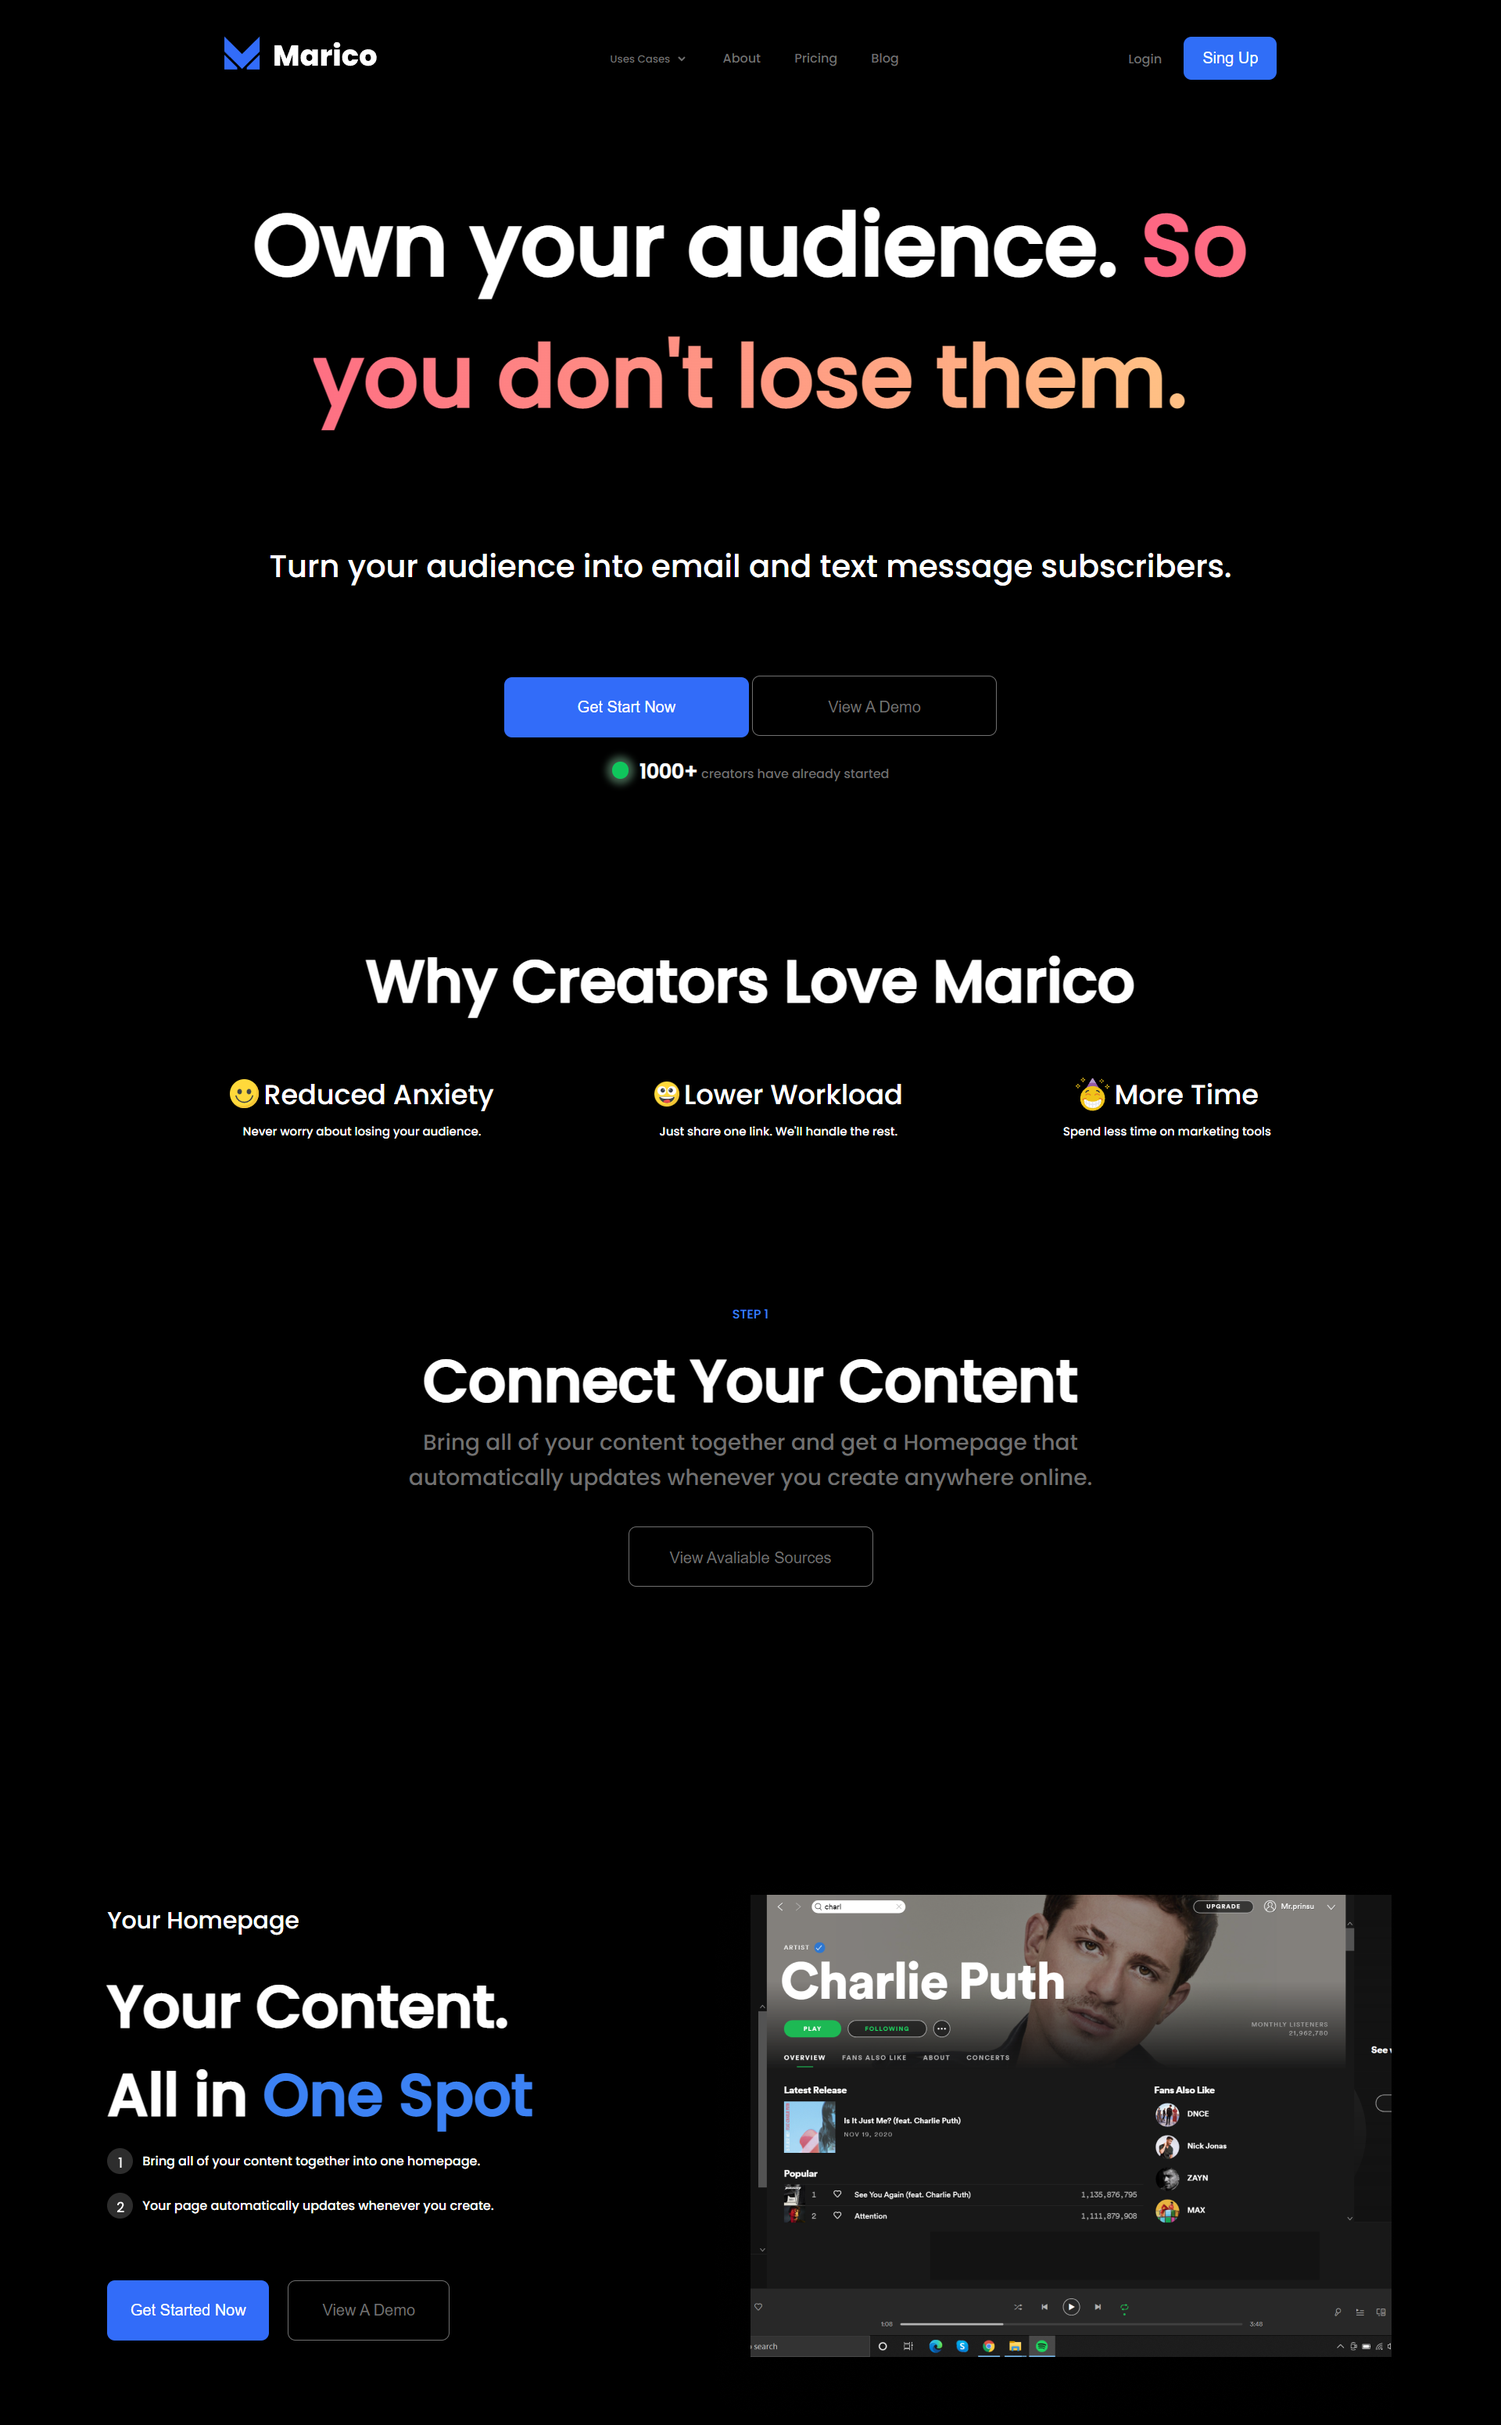
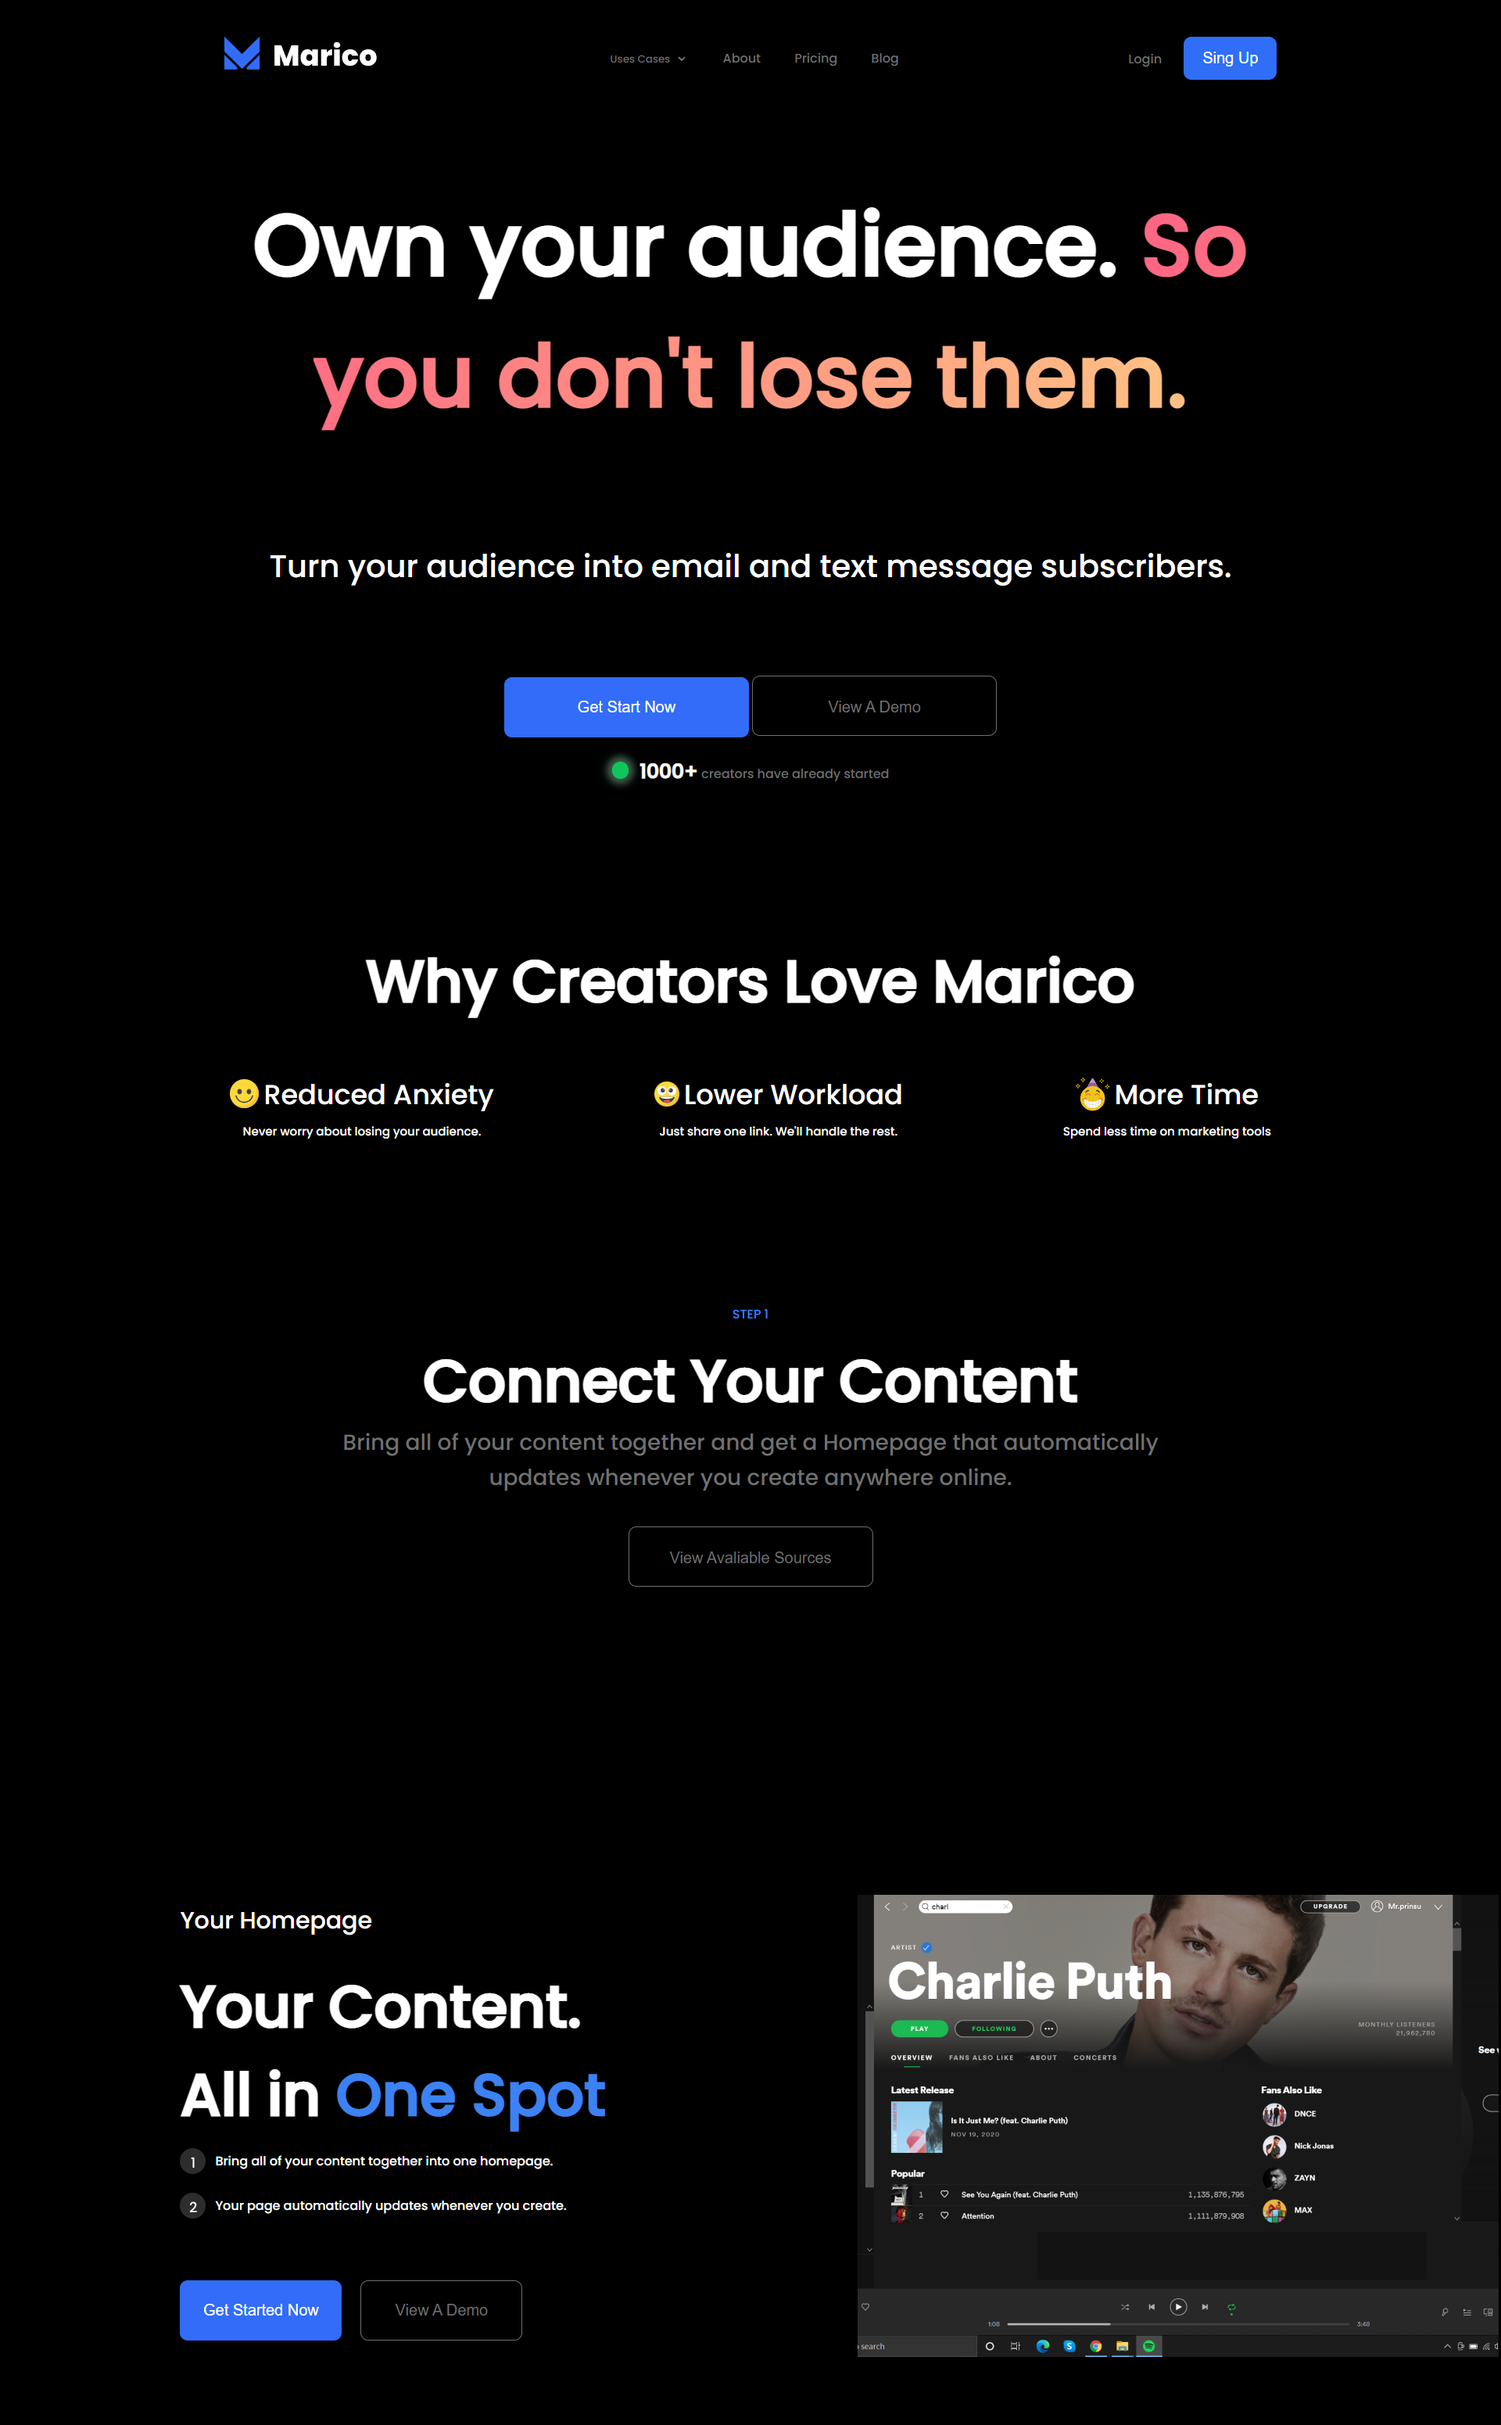
Fixed Mobile .gsn and .vad btns

diff --git a/Assets/styles.css b/Assets/styles.css
@@ -218,8 +218,8 @@ body {
 }
 .step-descr {
     margin: 0px auto;
-    width: 929px;
-    height: 90px;
+    width: 55%;
+    /* height: 90px; */
     font-size: 28px;
     line-height: 45px;
     font-weight: 400;
@@ -230,10 +230,13 @@ body {
 .home-page {
     display: flex;
     justify-content: center;
+    flex-wrap: wrap;
     margin-top: 374px;
+    width: 100%;
 }
 .home-page__left {
     text-align: left;
+    margin-left: 12%;
 }
 .home-page__left h4 {
     font-size: 75px;
@@ -270,9 +273,44 @@ body {
     padding: 18px 22px;
 }
 .home-page__right {
-    padding-left: 228px;
+    margin-left: auto;
 }
+
 /* mobile */
+/* 1610px */
+@media screen and (max-width: 1610px){
+    .home-page__right {
+        margin: 0px auto;
+        width: 100%;
+    }
+}
+/* 1272px */
+@media screen and (max-width: 1272px) {
+    .step-descr {
+        margin: 0px auto;
+        text-align: center;
+        width: 100%;
+    }
+    .home-page__right {
+        margin: 0px auto;
+        text-align: center;
+    }
+}
+/* 946px */
+@media screen and (max-width: 946px){
+    .home-page__right {
+        margin: 0px auto;
+        text-align: center;
+        float: none;
+    }
+    .home-page__right img {
+        width: 100%;
+        height: 100%;
+        text-align: center;
+        margin: 0px auto;
+    }
+}
+/* 666px */
 @media screen and (max-width: 666px) {
     .oya { /* сделал текст поменьше, чтобы не улетало на мобилке */
         color: white;
@@ -280,5 +318,18 @@ body {
         font-size: 4.9rem;
         line-height: 168px;
         width: 100%;
+    }
+}
+/* 572px */
+@media screen and (max-width: 572px){
+    .hp-btns {
+        display: block;
+        margin: 0px auto;
+        width: 100%;
+        text-align: center;
+        padding: 20px 0px;
+    }
+    .hp-btns .vad {
+        margin-top: 16px;
     }
 }
